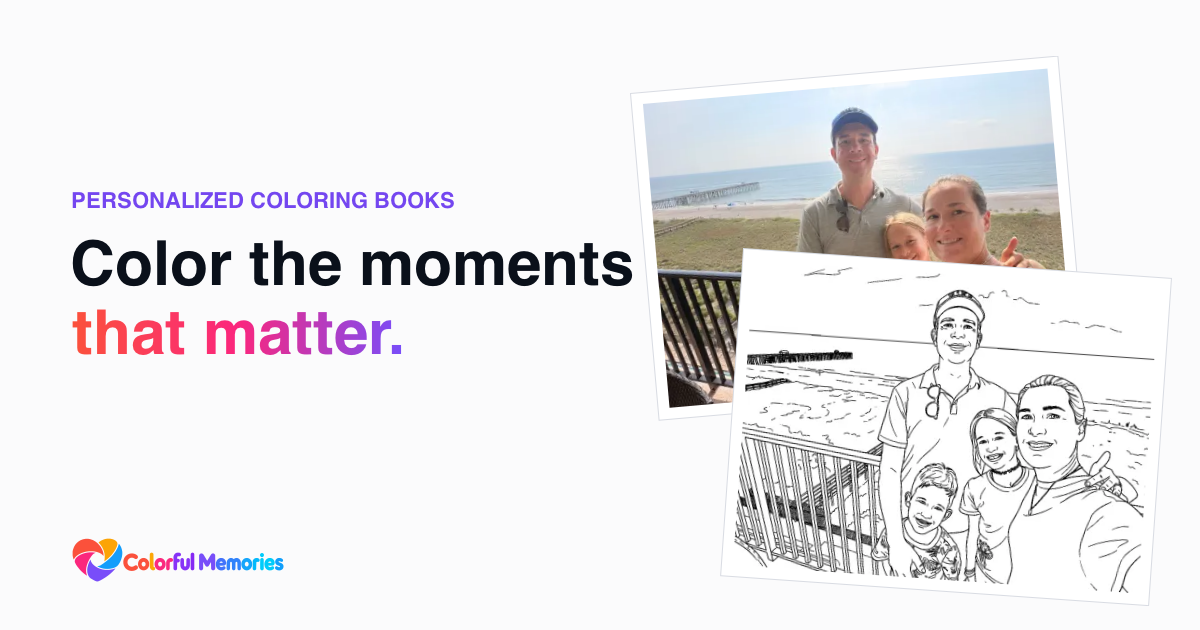
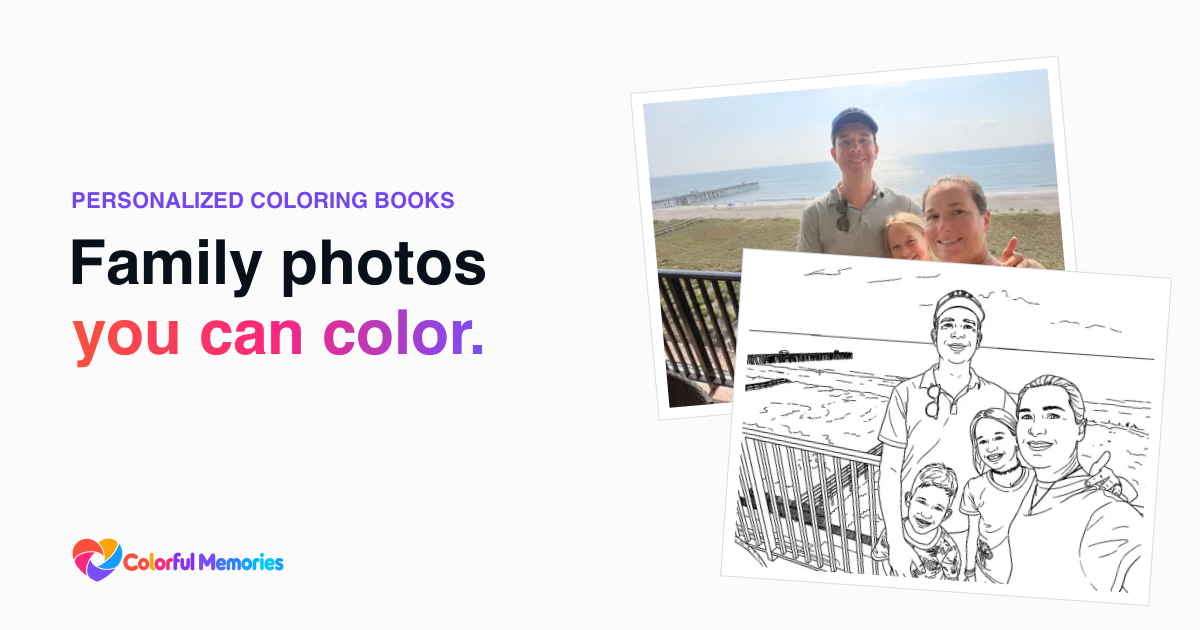
Rewrite the homepage copy in a plainer, more human voice
Replace the slogan-style lines ("Color the moments that matter", "Pages that
get colored, not filed", "Your photo in. Their page out.") with plain
sentences that say what the product does. Widen the audience beyond parents
of young kids to grandparents and grown-ups who color, and to weddings,
reunions and other family gatherings.

Add a "Not just for kids" ideas block to the homepage and two FAQs (adults
coloring, using it for a wedding or party). Regenerate the home share image
for the new headline.

Changed region(s): [[0.0617, 0.3619, 0.5242, 0.6032]]

diff --git a/src/content/marketing.ts b/src/content/marketing.ts
@@ -177,12 +177,12 @@ export const BEST_PHOTOS = {
 };
 
 export const WHY_FAMILIES: WhyBlock = {
-  eyebrow: "Why families love it",
+  eyebrow: "Why it's different",
   title: "It's them on the page",
-  body: "Generic coloring books are fine. A page of your kid, your dog and your backyard is the one that ends up on the fridge.",
+  body: "A store-bought coloring book gets a few scribbles and a spot on the shelf. A page with your own kids, your own dog and your own backyard gets colored slowly, shown to everyone, and kept.",
   points: [
-    { icon: "message", title: "Fix anything by typing", body: "“Thicker lines.” “Take out the stroller.” It redraws the page." },
-    { icon: "truck", title: "Real books, real paper", body: "Stapled, spiral or paperback, printed in the US and shipped where you choose." },
+    { icon: "message", title: "Change anything by typing", body: "“Give him a shave.” “Take out the stroller.” It draws the page again." },
+    { icon: "truck", title: "A real book on real paper", body: "Stapled, spiral or paperback. Printed in the US and mailed wherever you like." },
     {
       icon: "shield",
       title: "Your photos stay yours",
@@ -191,8 +191,54 @@ export const WHY_FAMILIES: WhyBlock = {
   ],
   example: BOYS_CATFISH,
   photo: "fridge",
-  useCasesTitle: "Perfect for",
-  useCases: ["Grandparent gifts", "Birthday parties", "Rainy afternoons", "Road trips", "Classrooms", "Family reunions"],
+  useCasesTitle: "People make them for",
+  useCases: [
+    "Grandparents who love to color",
+    "Quiet time at home",
+    "Birthday parties",
+    "Holiday visits",
+    "Road trips",
+    "Classrooms",
+  ],
+};
+
+/** Homepage ideas: who colors these and where they get used, beyond the occasion pages. */
+const HOME_IDEAS: IdeasBlock = {
+  eyebrow: "Ideas",
+  title: "Not just for kids",
+  body: "A coloring page of people you know works at almost any age, and for more occasions than you'd think.",
+  items: [
+    {
+      icon: "sparkles",
+      title: "For grown-ups who color",
+      body: "If coloring is how you unwind, ask for “more detail” and get a page with plenty to fill in. It's more fun when the faces are your own.",
+    },
+    {
+      icon: "users",
+      title: "Grandma and the grandkids",
+      body: "Print the same page twice and color it side by side. Someone always starts telling the story behind the photo.",
+    },
+    {
+      icon: "gift",
+      title: "The kids' table at a wedding",
+      body: "Print pages of the couple and set out crayons. The little guests stay busy right through the toasts.",
+    },
+    {
+      icon: "camera",
+      title: "Family reunions",
+      body: "Bring a stack of pages from last year's photos. The kids color, and the grown-ups argue about who's who.",
+    },
+    {
+      icon: "book",
+      title: "A new big brother or sister",
+      body: "A few pages of the family with the new baby help an older child feel like part of the big news.",
+    },
+    {
+      icon: "heart",
+      title: "Visiting someone in memory care",
+      body: "Familiar faces give you something calm to do together, and something to talk about while you color.",
+    },
+  ],
 };
 
 const ALL_SECTIONS_OFF: LandingSections = {
@@ -221,24 +267,25 @@ export const LANDING_PAGES: Record<LandingIntent, LandingPageCopy> = {
   default: {
     intent: "default",
     path: "/",
-    title: "Color the moments that matter | Colorful Memories",
+    title: "Coloring books made from your family photos | Colorful Memories",
     description:
-      "Turn photos from your phone into a coloring book that stars the people you love. Try a free coloring page, no account needed. Order a printed book as a gift.",
+      "Turn the photos on your phone into coloring pages of your own family. Print them at home or order a printed book for the kids, the grandparents or yourself. Try a page free, no account needed.",
     shareImage: "/share/home.png",
     shareImageAlt: "A family photo next to the coloring page made from it",
     eyebrow: "Personalized coloring books",
     eyebrowIcon: "sparkles",
     ready: true,
     coverTitle: "Our Family Book",
-    headline: ["Color the moments", "that matter."],
+    headline: ["Family photos", "you can color."],
     subhead:
-      "Turn the photos already on your phone into a coloring book that stars the people you love. A gift made from a picture you already have.",
+      "Pick a photo from your phone and get a coloring page of it in about a minute. Print it at home, or put a few together into a real book for the kids, the grandparents, or yourself.",
     primaryCta: PRIMARY_CTA,
     trustBullets: ["No account to start", "First page in about a minute", "Your photos stay private"],
     hero: FAMILY_BALCONY,
     heroPhoto: "living-room-floor",
     sections: { ...CONSUMER_SECTIONS, occasions: true },
     why: WHY_FAMILIES,
+    ideas: HOME_IDEAS,
     faq: [],
   },
   gift: {
@@ -642,37 +689,37 @@ export const HEADER = {
 /** The occasions cards. The card for the page you are on is left out. */
 export const OCCASIONS = {
   eyebrow: "Occasions",
-  title: "Made for the moments that matter",
+  title: "A few good reasons to make one",
   cards: [
     {
       intent: "gift",
       icon: "gift",
       image: "kitchen-table",
-      title: "A gift book",
+      title: "For the grandparents",
       /** Used instead of `title` while the Christmas order-by date is set. */
       holidayTitle: "Christmas gifts",
-      body: "A printed book starring the grandkids, shipped to them with a note.",
+      body: "A book of the grandkids, mailed straight to Grandma and Grandpa with a note from you.",
     },
     {
       intent: "birthday",
       icon: "cake",
       image: "birthday-table",
       title: "Birthdays",
-      body: "A book starring the birthday kid, or pages to print for every guest.",
+      body: "Pages of the birthday kid for every guest to color, or a book they get to keep.",
     },
     {
       intent: "pets",
       icon: "paw",
       image: "dog-coloring",
       title: "Pets",
-      body: "Their dog or cat as a coloring page, for the pet lover in your life.",
+      body: "Your dog or cat on a page to color. A sweet gift for anyone who talks about their pet nonstop.",
     },
     {
       intent: "partners",
       icon: "briefcase",
       image: "birthday-table",
       title: "Photographers and businesses",
-      body: "Turn a session, a class or an event into a coloring book families keep.",
+      body: "Photographers, schools and event planners: give families a coloring book of their day.",
       /** This card goes to its page instead of starting a free page. */
       link: "See how it works for businesses",
     },
@@ -687,36 +734,38 @@ export const OCCASIONS = {
     link?: string;
   }[],
   /** Plain text, no links. Items tied to a page are listed here while that page is not ready. */
-  othersLead: "Also made for",
+  othersLead: "People also make them for",
   others: [
     { label: "birthdays", intent: "birthday" },
     { label: "pets", intent: "pets" },
     { label: "weddings" },
-    { label: "vacations" },
+    { label: "anniversaries" },
     { label: "family reunions" },
-    { label: "new homes" },
+    { label: "a new baby in the family" },
+    { label: "vacations" },
+    { label: "a move to a new house" },
   ] as { label: string; intent?: LandingIntent }[],
 };
 
 export const HOW_IT_WORKS = {
   eyebrow: "How it works",
-  title: "Three steps. No design skills.",
-  body: "If you can send a photo, you can make a coloring book.",
+  title: "If you can text a photo, you can make one",
+  body: "No drawing, no design, nothing to install.",
   steps: [
     {
       icon: "image",
-      title: "Upload a photo",
-      body: "Any family picture from your phone. Birthdays, the beach, the dog. HEIC works too.",
+      title: "Pick a photo",
+      body: "Any picture from your phone. The beach, a birthday, the dog asleep on the couch. iPhone and Android both work.",
     },
     {
       icon: "sparkles",
       title: "Get a coloring page",
-      body: "In about a minute it becomes clean black-and-white line art your kid can color.",
+      body: "About a minute later you have clean black-and-white line art, ready for crayons, markers or colored pencils.",
     },
     {
       icon: "printer",
-      title: "Print or order a book",
-      body: "Download a free PDF for your home printer, or turn your pages into a real stapled, spiral or paperback book, shipped where you choose.",
+      title: "Print it or order a book",
+      body: "Print a page free at home, or put your pages together into a stapled, spiral or paperback book and have it mailed wherever you like.",
     },
   ],
 } as const;
@@ -841,19 +890,19 @@ export const LIFESTYLE_PHOTOS: Record<LifestyleId, LifestylePhoto> = {
  * the strip is hidden until at least three of the rest are ready.
  */
 export const PHOTO_BAND = {
-  eyebrow: "Made for real life",
-  title: "Pages that get colored, not filed",
-  body: "Rainy days, grandma's table, the birthday party. Then straight onto the fridge.",
+  eyebrow: "Who's coloring",
+  title: "Kids, grandparents and everyone in between",
+  body: "A rainy Saturday on the living room floor. Grandma's kitchen table. The end of a long party table. The best ones end up on the fridge.",
   ids: ["kitchen-table", "living-room-floor", "fridge", "birthday-table", "dog-coloring"] as LifestyleId[],
 };
 
 /** The real before/after, shown big. The switcher lists every real pair on the page. */
 export const TRANSFORM = {
-  eyebrow: "Real photos, real pages",
-  title: "Your photo in. Their page out.",
-  body: "Every page here was made in the studio from a real family photo. Drag the slider to compare.",
+  eyebrow: "Before and after",
+  title: "This started as an everyday photo",
+  body: "Every page on this site was made from a real family photo. Drag the slider to see both.",
   fixTitle: "Not quite right?",
-  fixBody: "Type “thicker lines” or “take out the stroller” and it redraws the page.",
+  fixBody: "Type what you'd change, like “take out the stroller” or “make the hat say Duke,” and it draws the page again. Want more to color? Ask for more detail.",
 };
 
 /** Photo behind the final call to action: the first one that is ready. */
@@ -1036,6 +1085,16 @@ export const FAQ: { eyebrow: string; title: string; items: (FaqEntry & { id: str
         "It depends on page count, binding and where it ships. You'll see the exact price, printing and shipping included, before you pay.",
     },
     {
+      id: "adults",
+      q: "Is it only for kids?",
+      a: "Not at all. Plenty of grown-ups color too. Ask for “more detail” on any page and you'll get finer lines and more to fill in.",
+    },
+    {
+      id: "events",
+      q: "Can I use it for a wedding or a family party?",
+      a: "Yes. Print single pages free at home for the kids' table, or make the whole book as a print-at-home PDF and print as many copies as you need. A printed book order is one book.",
+    },
+    {
       id: "bleed",
       q: "Will markers bleed through the paper?",
       a: "Not onto another picture. Each coloring page prints on its own sheet with the back left blank. You can turn that off at checkout to print on both sides and pay less.",
@@ -1077,7 +1136,7 @@ export const FAQ: { eyebrow: string; title: string; items: (FaqEntry & { id: str
 
 export const FINAL_CTA = {
   title: "Start with one free coloring page",
-  body: "Pick a photo from your camera roll. You'll have a coloring page before the kettle boils.",
+  body: "Pick a photo from your camera roll. In about a minute you'll have a page ready to print and color.",
   creditBadge: "Sign up free and get a {credit} credit toward your first book",
   cta: PRIMARY_CTA,
   points: ["Free to try, no account", "Exact price before you pay", "Printed in the US"],

diff --git a/src/components/v2/marketing/V2LandingPage.tsx b/src/components/v2/marketing/V2LandingPage.tsx
@@ -519,7 +519,7 @@ function Testimonials() {
   return (
     <section className="border-y border-gray-200 bg-white">
       <div className="v2-gutter-x mx-auto w-full max-w-7xl py-12 sm:py-16">
-        <SectionHeading eyebrow="From families" title="What parents tell us" />
+        <SectionHeading eyebrow="From families" title="What families tell us" />
         <ul className="mt-8 grid gap-4 sm:mt-10 md:grid-cols-3 md:gap-5">
           {TESTIMONIALS.map((t) => (
             <li key={`${t.firstName}-${t.consentDate}`} className="flex flex-col rounded-2xl border border-gray-200 bg-v2-bg p-5 sm:p-6">
